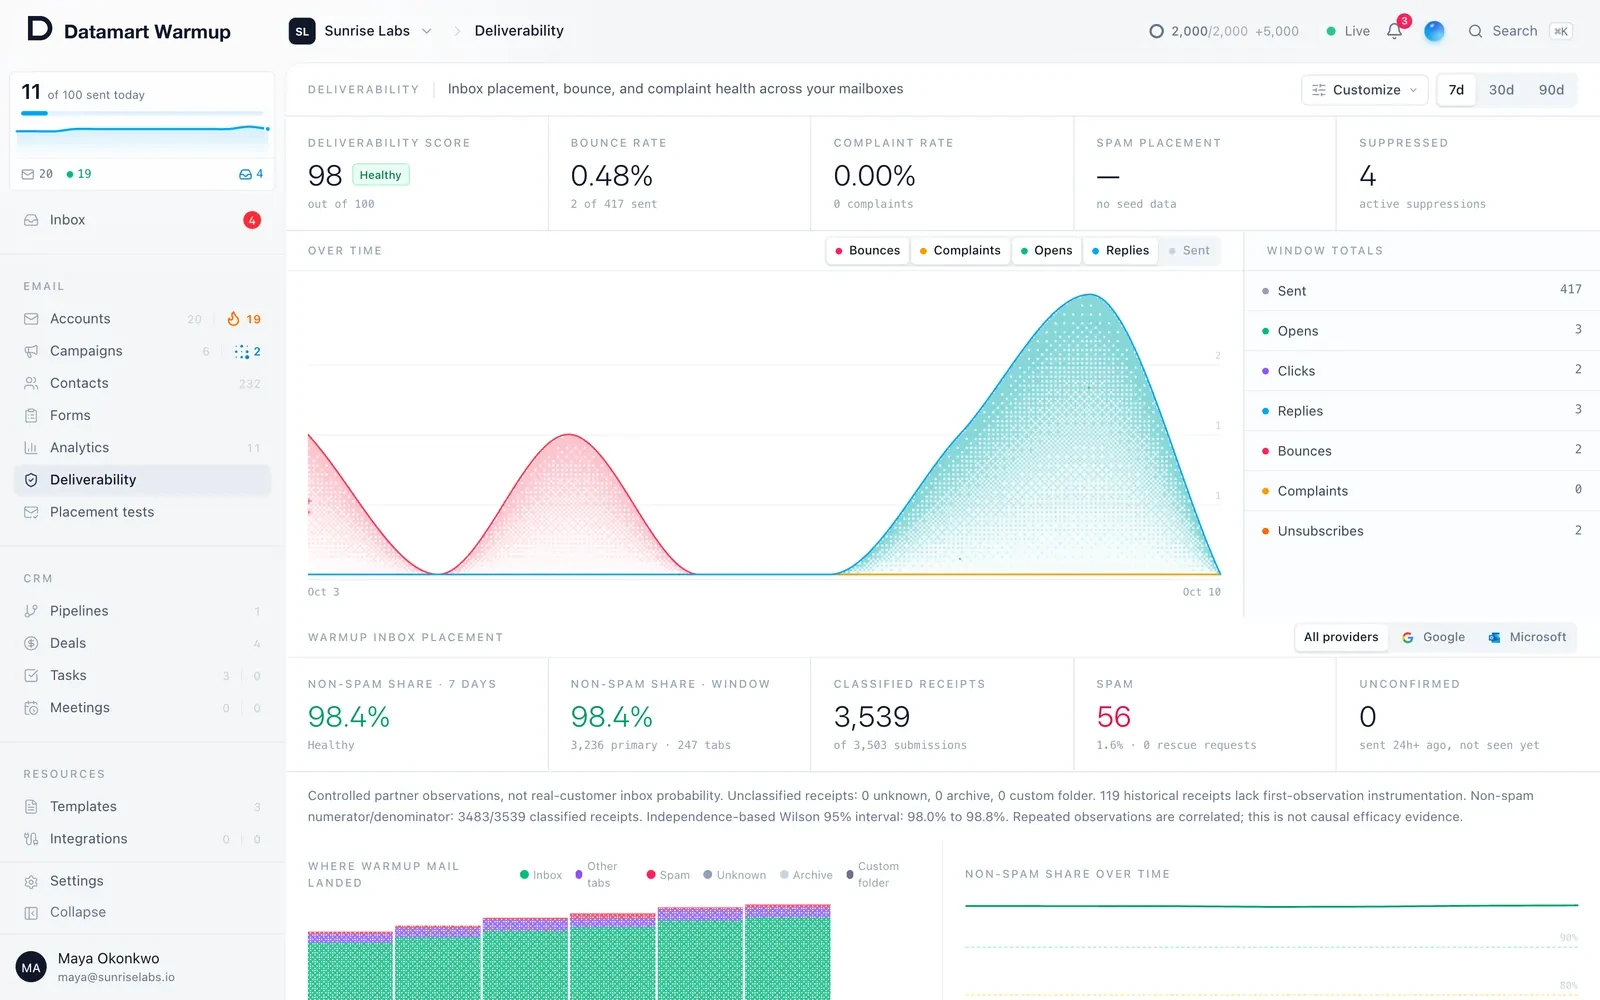
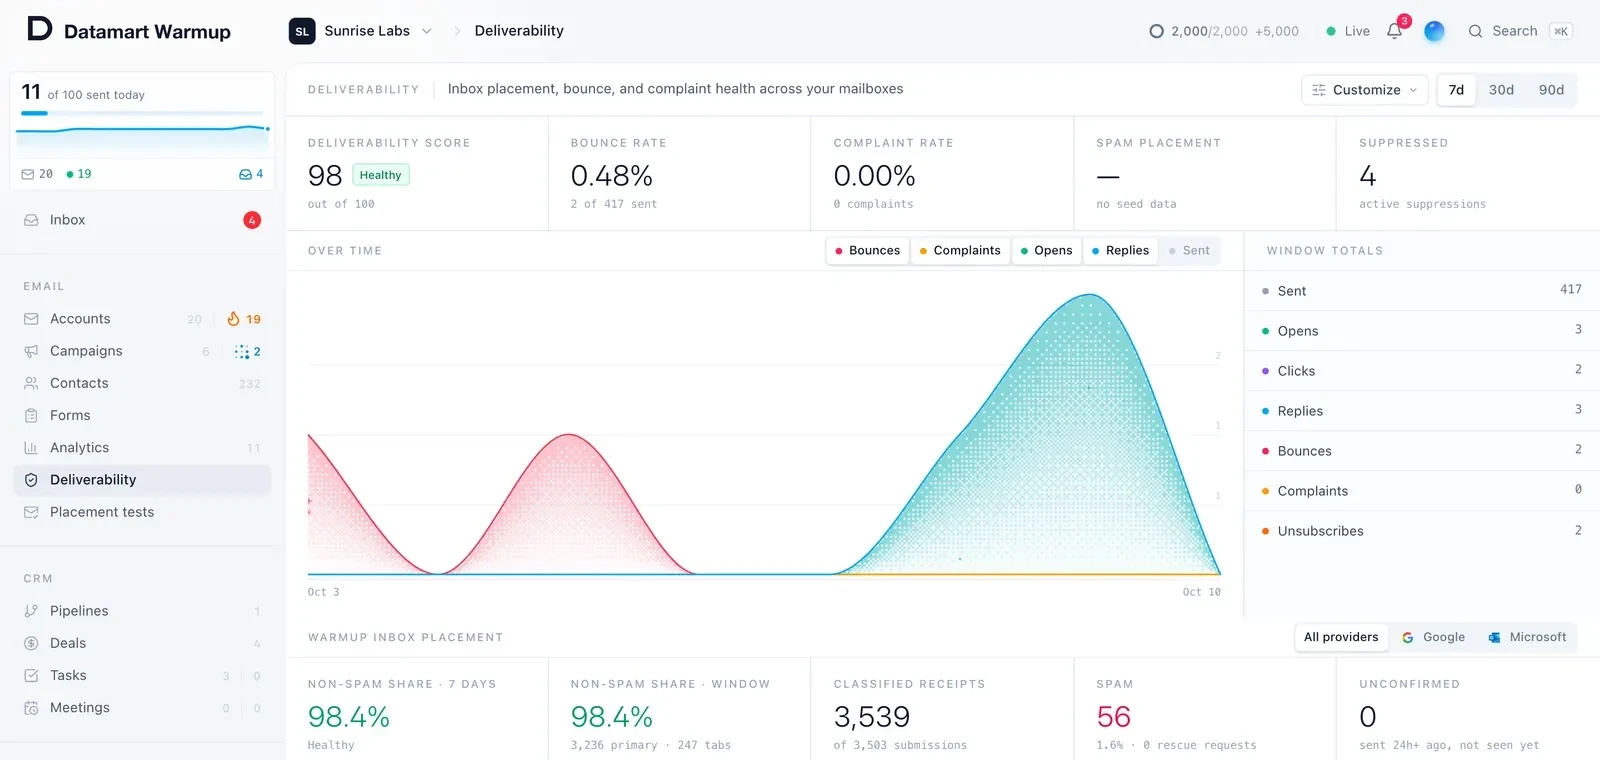
Landing page: keep screenshot proportions and crop them to the top of the dashboard

diff --git a/datamart/landing/index.html b/datamart/landing/index.html
@@ -49,7 +49,7 @@
     font-family: "Plus Jakarta Sans", system-ui, -apple-system, sans-serif;
     font-size: 17px; line-height: 1.6; -webkit-font-smoothing: antialiased;
   }
-  img { max-width: 100%; display: block; }
+  img { max-width: 100%; height: auto; display: block; }
   a { color: inherit; }
   .wrap { max-width: 1180px; margin: 0 auto; padding: 0 24px; }
   .skip { position: absolute; left: -9999px; }
@@ -220,7 +220,7 @@
       <figure class="shot reveal">
         <div class="frame">
           <div class="bar" aria-hidden="true"><i></i><i></i><i></i></div>
-          <img src="/landing/img/mailboxes.webp" width="1600" height="1000" alt="The Datamart Warmup mailbox list: twenty connected mailboxes with their warmup progress, daily sends, inbox rate and health score.">
+          <img src="/landing/img/mailboxes.webp" width="1600" height="760" alt="The Datamart Warmup mailbox list: twenty connected mailboxes with their warmup progress, daily sends, inbox rate and health score.">
         </div>
         <figcaption class="caption">The mailbox dashboard, shown with a sample workspace.</figcaption>
       </figure>
@@ -273,7 +273,7 @@
       <figure class="reveal" style="margin:0">
         <div class="frame">
           <div class="bar" aria-hidden="true"><i></i><i></i><i></i></div>
-          <img src="/landing/img/deliverability.webp" width="1600" height="1000" loading="lazy" alt="The deliverability dashboard: a deliverability score, bounce and complaint rates, and warmup inbox placement over time.">
+          <img src="/landing/img/deliverability.webp" width="1600" height="760" loading="lazy" alt="The deliverability dashboard: a deliverability score, bounce and complaint rates, and warmup inbox placement over time.">
         </div>
         <figcaption class="caption">Deliverability, shown with a sample workspace.</figcaption>
       </figure>
